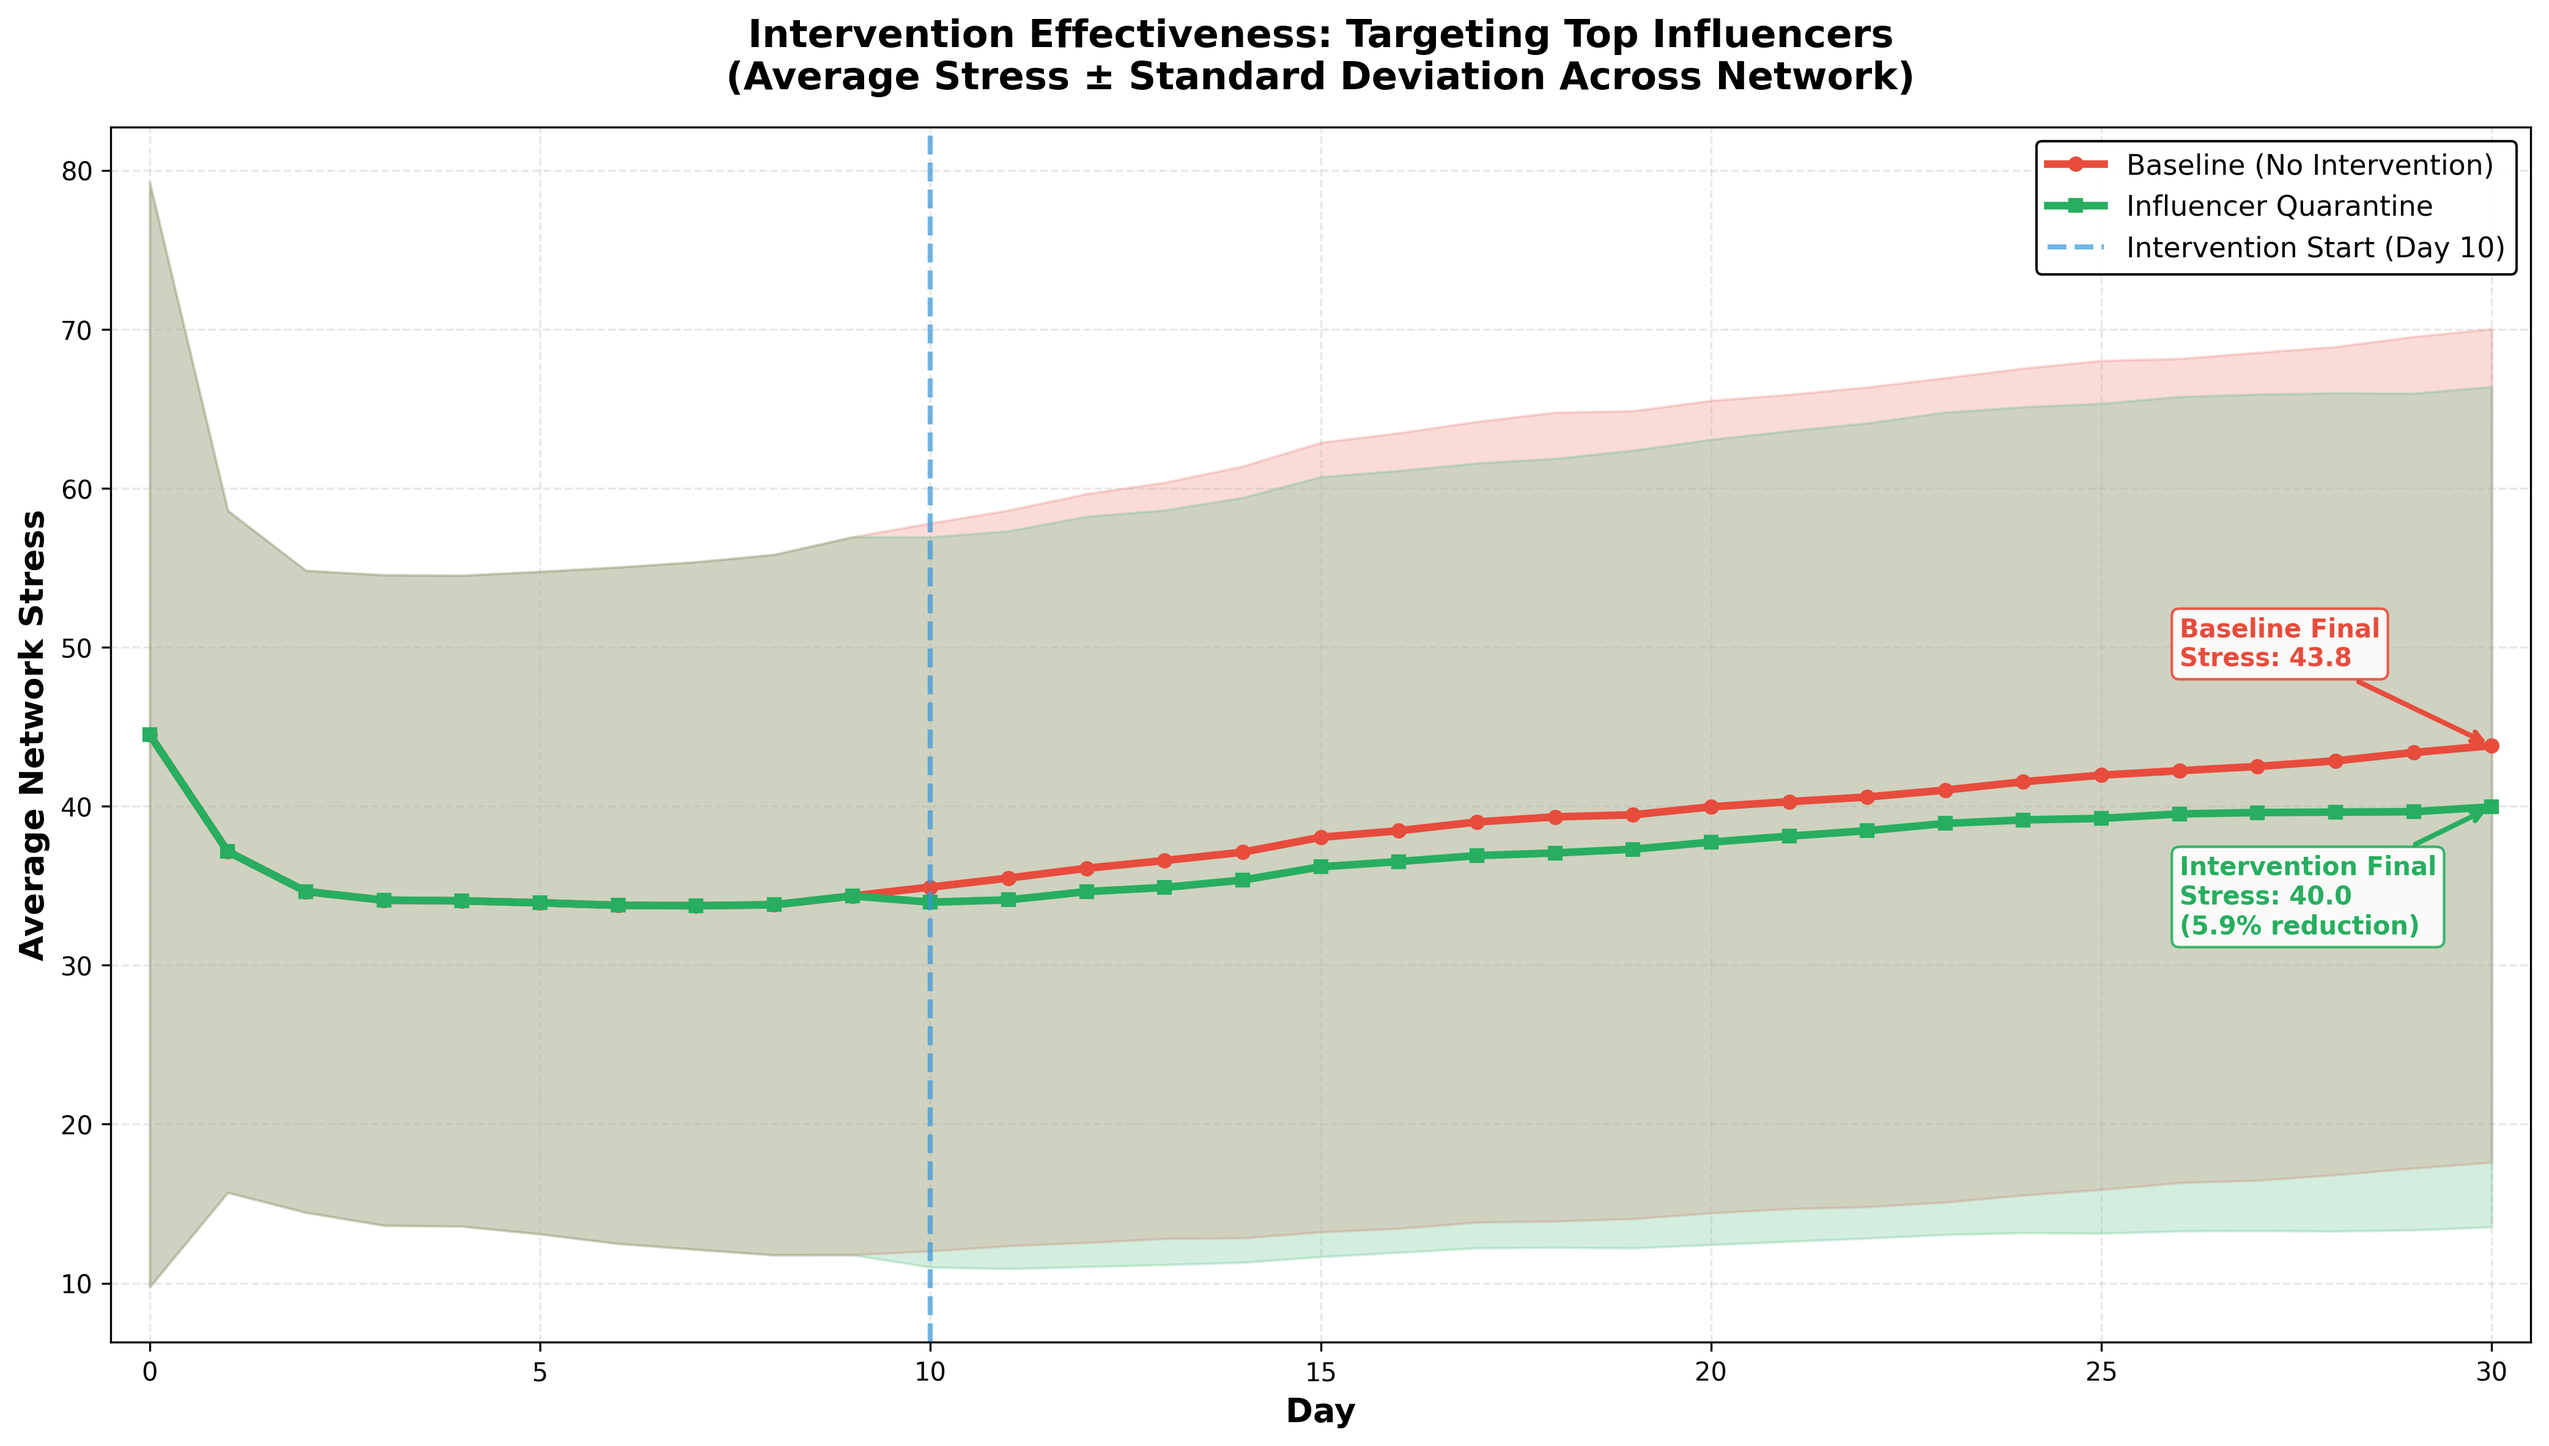
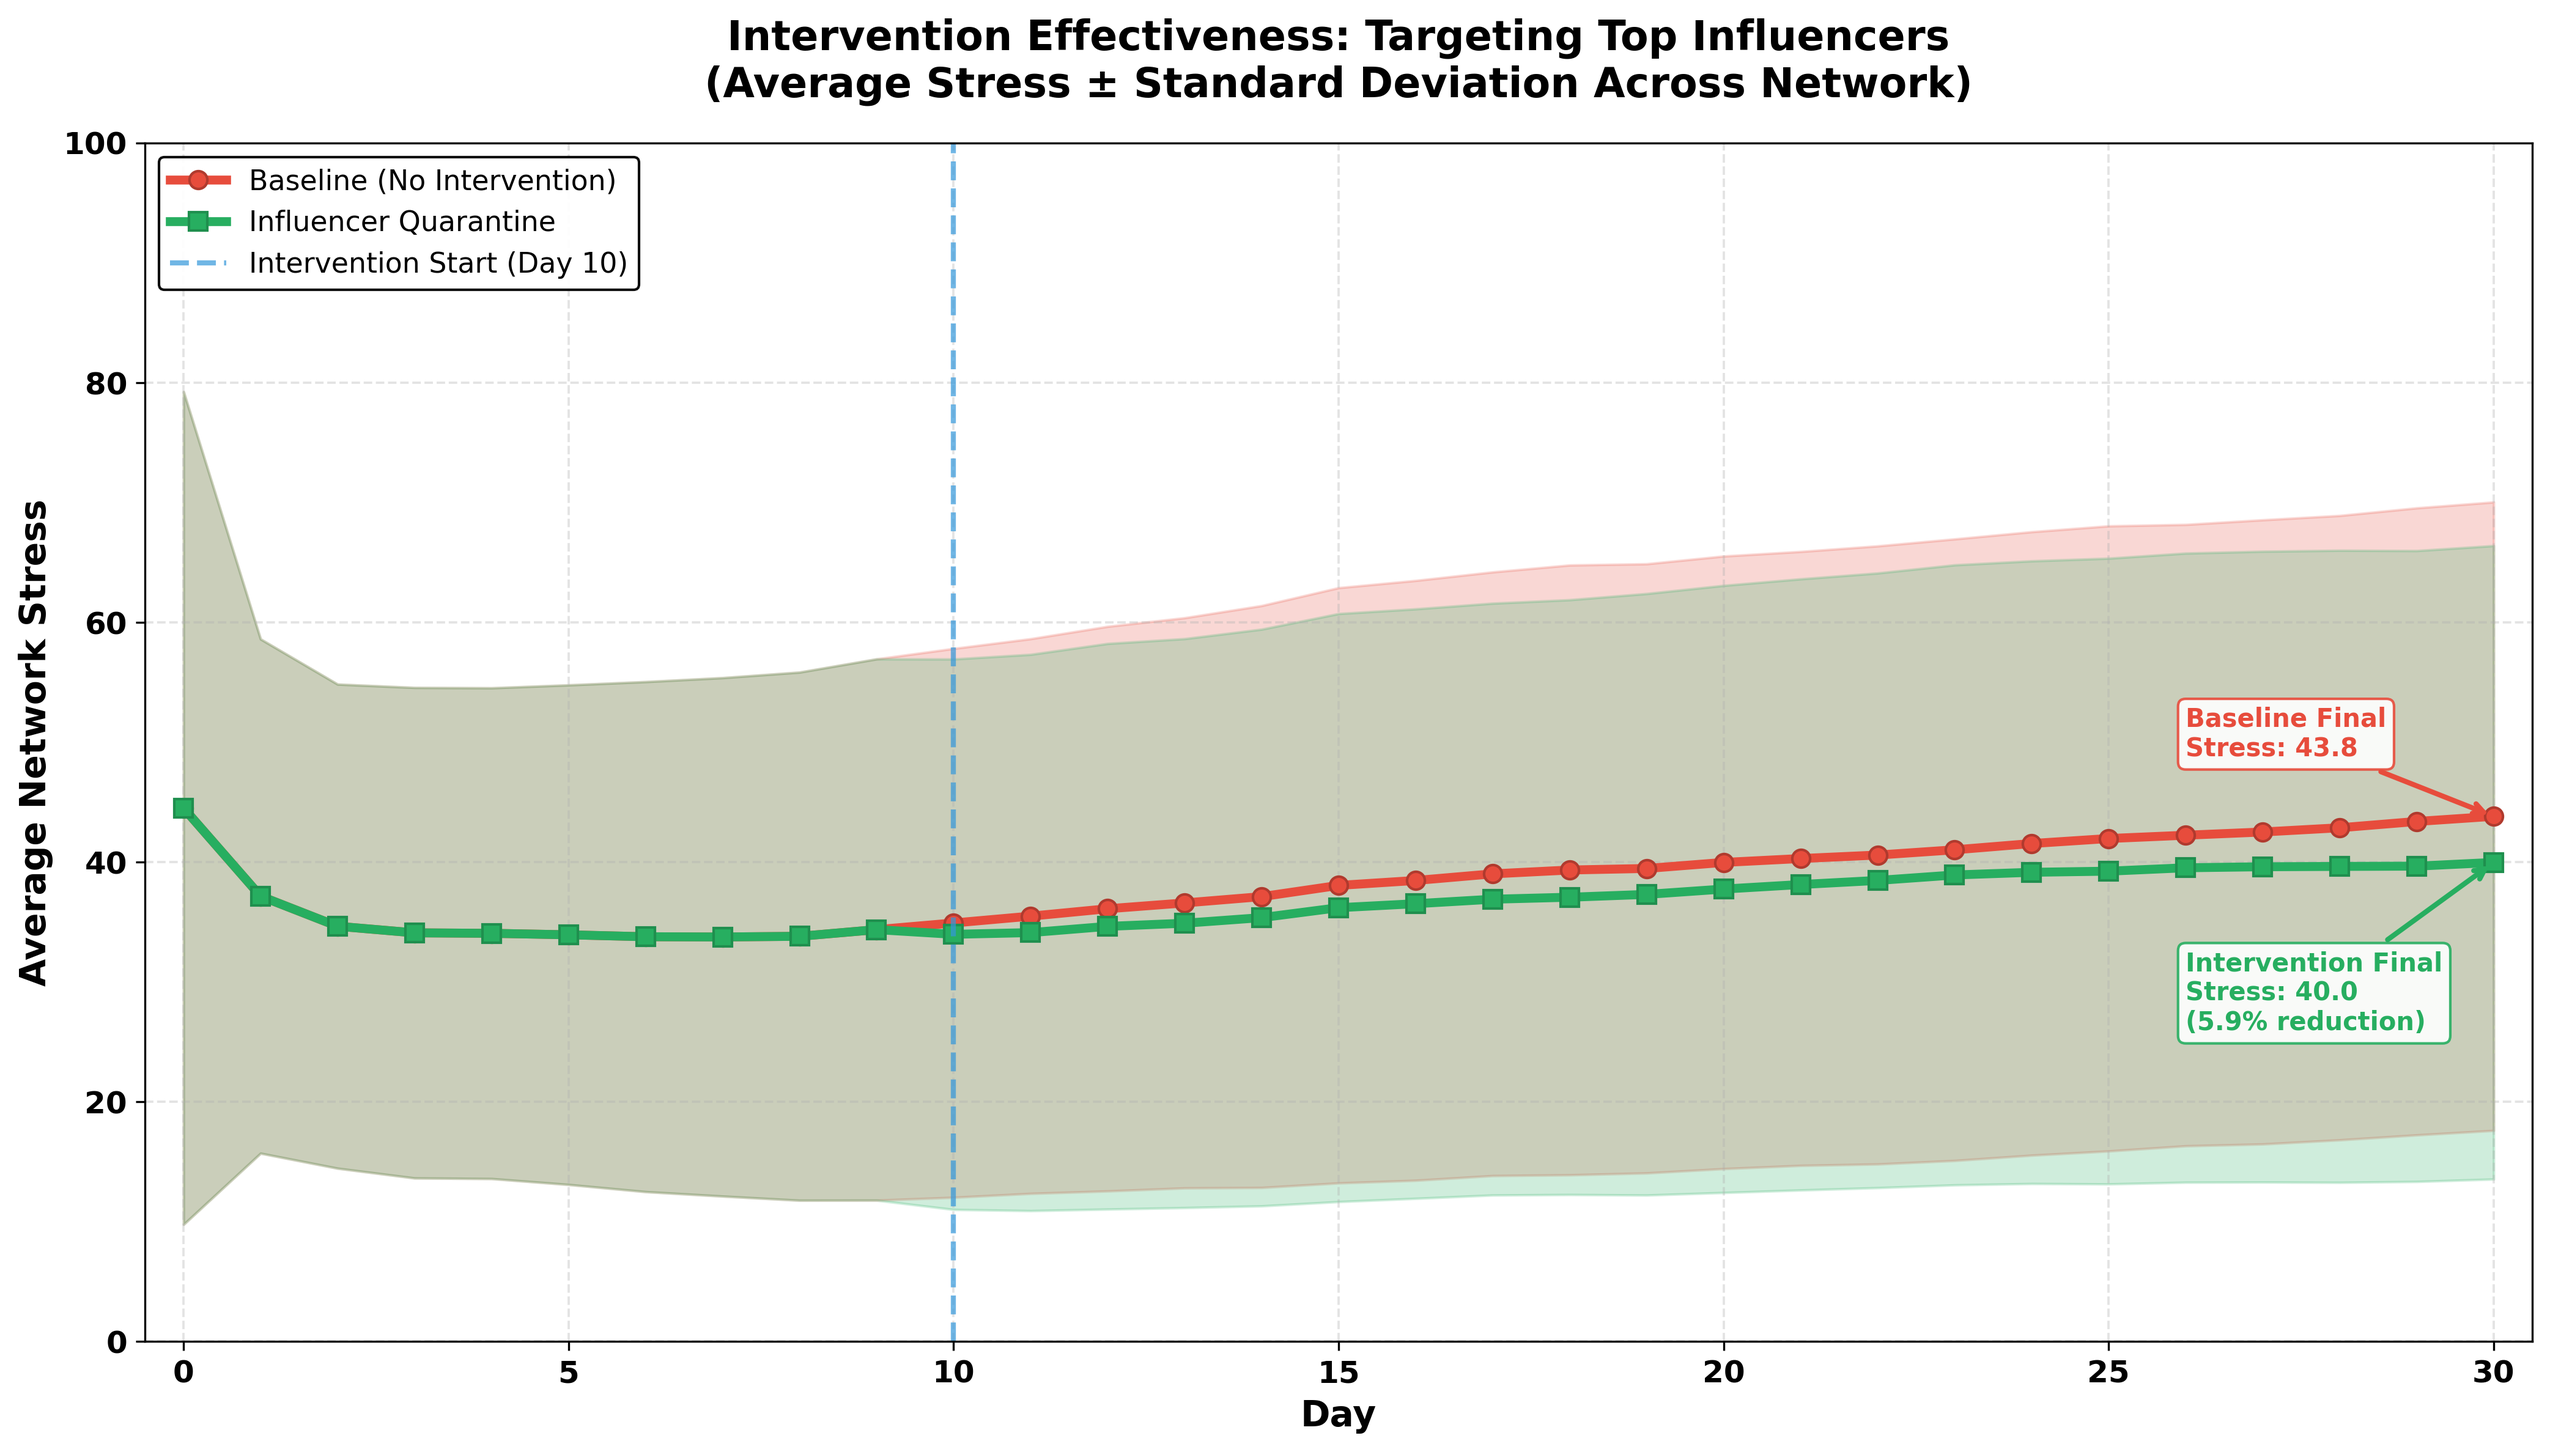
Clearer visualizations 2

diff --git a/src/create_visualizations.py b/src/create_visualizations.py
@@ -53,15 +53,15 @@ def create_network_visualization():
     fig, ax = plt.subplots(figsize=(14, 10))
     
     # Draw edges
-    nx.draw_networkx_edges(G, pos, alpha=0.15, width=0.8, ax=ax, edge_color='#bdc3c7')
+    nx.draw_networkx_edges(G, pos, alpha=0.12, width=0.7, ax=ax, edge_color='#bdc3c7')
     
     # Draw regular nodes
     regular_nodes = [n for n in G.nodes() if n not in influencer_ids]
     nx.draw_networkx_nodes(G, pos, nodelist=regular_nodes,
                            node_color=[persona_colors.get(G.nodes[node].get('persona', 'Unknown'), '#95a5a6') 
                                       for node in regular_nodes],
-                           node_size=120, alpha=0.85, ax=ax, 
-                           linewidths=1, edgecolors='white')
+                           node_size=140, alpha=0.9, ax=ax, 
+                           linewidths=1.5, edgecolors='white')
     
     # Draw influencer nodes (highlighted)
     nx.draw_networkx_nodes(G, pos, nodelist=list(influencer_ids),
@@ -74,7 +74,7 @@ def create_network_visualization():
                             font_weight='bold', font_color='black', ax=ax)
     
     ax.set_title('Social Network: Digital Contagion Simulator\n(100 Agents with Homophily-Based Connections)',
-                 fontsize=16, fontweight='bold', pad=20)
+                 fontsize=17, fontweight='bold', pad=20)
     ax.axis('off')
     
     # Legend
@@ -86,13 +86,13 @@ def create_network_visualization():
     legend_elements.append(Patch(facecolor='gold', label='Top 5 Influencers', 
                                   edgecolor='#e67e22', linewidth=2))
     
-    ax.legend(handles=legend_elements, loc='upper left', fontsize=11, 
-              framealpha=0.95, edgecolor='black')
+    ax.legend(handles=legend_elements, loc='upper left', fontsize=12, 
+              framealpha=0.98, edgecolor='black', title='Persona Legend', title_fontsize=12)
     
     # Add network stats
     stats_text = f"Nodes: {G.number_of_nodes()} | Edges: {G.number_of_edges()} | Avg Degree: {2*G.number_of_edges()/G.number_of_nodes():.1f}"
     ax.text(0.5, -0.05, stats_text, ha='center', va='top', 
-            transform=ax.transAxes, fontsize=11, style='italic')
+            transform=ax.transAxes, fontsize=12, fontweight='semibold')
     
     plt.tight_layout()
     output_path = OUTPUT_DIR / "viz_network_final.png"
@@ -119,22 +119,31 @@ def create_temporal_heatmap():
     fig, ax = plt.subplots(figsize=(16, 10))
     
     # Create heatmap
-    sns.heatmap(stress_matrix, cmap='YlOrRd', vmin=0, vmax=100,
+    heatmap = sns.heatmap(stress_matrix, cmap='YlOrRd', vmin=0, vmax=100,
                 cbar_kws={'label': 'Stress Level (0-100)', 'shrink': 0.8},
                 xticklabels=5, yticklabels=10, ax=ax, linewidths=0)
     
-    ax.set_xlabel('Day', fontsize=13, fontweight='bold')
-    ax.set_ylabel('Agent ID (sorted by final stress)', fontsize=13, fontweight='bold')
+    ax.set_xlabel('Day', fontsize=14, fontweight='bold')
+    ax.set_ylabel('Agent ID (sorted by final stress)', fontsize=14, fontweight='bold')
     ax.set_title('Temporal Heatmap: 30-Day Stress Contagion Evolution\n(Baseline Scenario - No Intervention)',
-                 fontsize=15, fontweight='bold', pad=15)
+                 fontsize=16, fontweight='bold', pad=18)
+    ax.tick_params(axis='both', labelsize=12)
+    for label in ax.get_xticklabels() + ax.get_yticklabels():
+        label.set_weight('semibold')
+    
+    cbar = heatmap.collections[0].colorbar
+    cbar.ax.tick_params(labelsize=12)
+    cbar.set_label('Stress Level (0-100)', fontsize=13, fontweight='bold')
+    for label in cbar.ax.get_yticklabels():
+        label.set_weight('semibold')
     
     # Add horizontal lines to separate stress zones
     high_stress_agents = (final_stress > 60).sum()
     if high_stress_agents > 0:
-        ax.axhline(y=high_stress_agents, color='white', linewidth=2, linestyle='--', alpha=0.7)
+        ax.axhline(y=high_stress_agents, color='#00b894', linewidth=2.5, linestyle='--', alpha=0.85)
         ax.text(31, high_stress_agents/2, 'High\nStress', va='center', ha='left', 
-                fontsize=10, fontweight='bold', color='white',
-                bbox=dict(boxstyle='round', facecolor='red', alpha=0.7))
+                fontsize=11, fontweight='bold', color='white',
+                bbox=dict(boxstyle='round', facecolor='#00b894', alpha=0.9, edgecolor='white', linewidth=1))
     
     plt.tight_layout()
     output_path = OUTPUT_DIR / "viz_temporal_heatmap_final.png"
@@ -167,19 +176,21 @@ def create_intervention_comparison():
     
     # Plot baseline
     ax.plot(baseline_daily.index, baseline_daily['mean'], 
-            linewidth=3, color='#e74c3c', label='Baseline (No Intervention)', marker='o', markersize=5)
+            linewidth=3.5, color='#e74c3c', label='Baseline (No Intervention)', marker='o', markersize=7,
+            markeredgewidth=1, markeredgecolor='#b03a2e')
     ax.fill_between(baseline_daily.index,
                      baseline_daily['mean'] - baseline_daily['std'],
                      baseline_daily['mean'] + baseline_daily['std'],
-                     alpha=0.2, color='#e74c3c')
+                     alpha=0.22, color='#e74c3c')
     
     # Plot intervention
     ax.plot(intervention_daily.index, intervention_daily['mean'],
-            linewidth=3, color='#27ae60', label='Influencer Quarantine', marker='s', markersize=5)
+            linewidth=3.5, color='#27ae60', label='Influencer Quarantine', marker='s', markersize=7,
+            markeredgewidth=1, markeredgecolor='#1f8f4e')
     ax.fill_between(intervention_daily.index,
                      intervention_daily['mean'] - intervention_daily['std'],
                      intervention_daily['mean'] + intervention_daily['std'],
-                     alpha=0.2, color='#27ae60')
+                     alpha=0.22, color='#27ae60')
     
     # Mark intervention start
     ax.axvline(x=intervention_day, color='#3498db', linestyle='--', linewidth=2, 
@@ -196,18 +207,22 @@ def create_intervention_comparison():
                 bbox=dict(boxstyle='round', facecolor='white', edgecolor='#e74c3c', alpha=0.9))
     
     ax.annotate(f'Intervention Final\nStress: {final_intervention:.1f}\n({reduction_pct:.1f}% reduction)',
-                xy=(30, final_intervention), xytext=(26, final_intervention - 8),
+                xy=(30, final_intervention), xytext=(26, final_intervention - 14),
                 arrowprops=dict(arrowstyle='->', color='#27ae60', lw=2),
                 fontsize=10, fontweight='bold', color='#27ae60',
                 bbox=dict(boxstyle='round', facecolor='white', edgecolor='#27ae60', alpha=0.9))
     
-    ax.set_xlabel('Day', fontsize=13, fontweight='bold')
-    ax.set_ylabel('Average Network Stress', fontsize=13, fontweight='bold')
+    ax.set_xlabel('Day', fontsize=14, fontweight='bold')
+    ax.set_ylabel('Average Network Stress', fontsize=14, fontweight='bold')
     ax.set_title('Intervention Effectiveness: Targeting Top Influencers\n(Average Stress ± Standard Deviation Across Network)',
-                 fontsize=15, fontweight='bold', pad=15)
-    ax.legend(fontsize=11, loc='upper right', framealpha=0.95, edgecolor='black')
-    ax.grid(alpha=0.3, linestyle='--')
+                 fontsize=16, fontweight='bold', pad=18)
+    ax.legend(fontsize=11, loc='upper left', framealpha=0.95, edgecolor='black')
+    ax.grid(alpha=0.35, linestyle='--', linewidth=0.9)
     ax.set_xlim(-0.5, 30.5)
+    ax.set_ylim(0, 100)
+    ax.tick_params(labelsize=12)
+    for label in ax.get_xticklabels() + ax.get_yticklabels():
+        label.set_weight('semibold')
     
     plt.tight_layout()
     output_path = OUTPUT_DIR / "viz_intervention_comparison_final.png"
